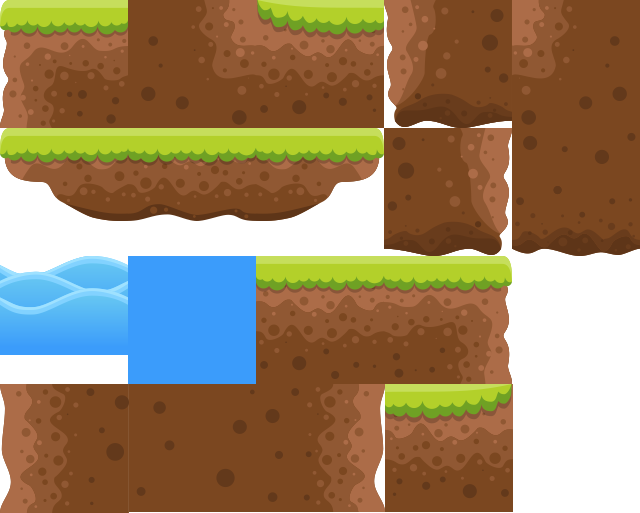
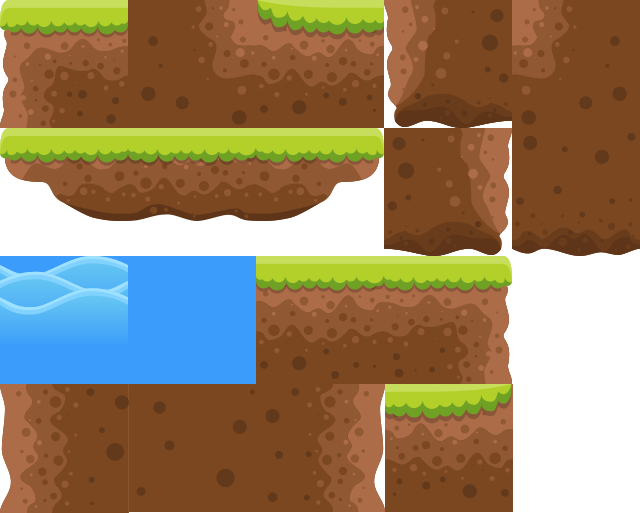
added anim.js , edited some images and now moving camera with the playerFighter and detecting collisions of playerFighter with ground

Changed region(s): [[0.0, 0.6862, 0.2188, 0.7485], [0.0, 0.499, 0.125, 0.5302], [0.1562, 0.499, 0.2188, 0.5302]]

diff --git a/public/js/layers.js b/public/js/layers.js
@@ -1,24 +1,10 @@
-import { loadImage } from './loaders.js';
-
-function drawBackground(background, ctx, sprites) {
-
-    background.ranges.forEach(([x1, x2, y1, y2]) => {
-        for(let x = x1; x < x2; ++x) {
-            for(let y = y1; y < y2; ++y) {
-                sprites.drawTile(background.tile, ctx, x, y);
-            }
-        }
-    });
-
-}
-
 
 export function createBackgroundLayer(level, sprites) {
     const tiles = level.tiles;
     const resolver = level.tileCollider.tiles;
 
     const backgroundBuffer = document.createElement('canvas');
-    backgroundBuffer.width = 128*12;
+    backgroundBuffer.width = 128*20;
     backgroundBuffer.height = 128*5;
 
     const context = backgroundBuffer.getContext('2d');
@@ -46,21 +32,21 @@ export function createBackgroundLayer(level, sprites) {
 
     return function drawBackgroundLayer(context, camera) {
 
-        loadImage('../images/sky3.png')
-        .then(backgroundImage => {
-            for(let i = 0; i < Math.ceil(camera.pos.x/1920) + 1; ++i ) {
-                context.drawImage(backgroundImage, 0 - camera.pos.x + i*1920, -320 - camera.pos.y);
-            }
-        }).then(() => {
-            const drawWidth = resolver.toIndex(camera.size.x);
-            const drawFrom = resolver.toIndex(camera.pos.x);
-            const drawTo = drawFrom + drawWidth;
-            redraw(drawFrom, drawTo);
-
+        // loadImage('../images/sky3.png')
+        // .then(backgroundImage => {
+        //     for(let i = 0; i < Math.ceil(camera.pos.x/1920) + 1; ++i ) {
+        //         context.drawImage(backgroundImage, 0 - camera.pos.x + i*1920, -320 - camera.pos.y);
+        //     }
+        // }).then(() => {
             
-            context.drawImage(backgroundBuffer, -camera.pos.x % 128, -camera.pos.y);
-        });
+        // });
+        const drawWidth = resolver.toIndex(camera.size.x);
+        const drawFrom = resolver.toIndex(camera.pos.x);
+        const drawTo = drawFrom + drawWidth;
+        redraw(drawFrom, drawTo);
+
         
+        context.drawImage(backgroundBuffer, -camera.pos.x % 128, -camera.pos.y);
     };
 }
 
@@ -69,18 +55,22 @@ export function createSpriteLayer(entities, width, height) {
     spriteBuffer.width = width;
     spriteBuffer.height = height;
     const spriteBufferContext = spriteBuffer.getContext('2d');
-
+    
 
     return function drawSpriteLayer(context, camera) {
+
+        
         entities.forEach(entity => {
             spriteBufferContext.clearRect(0, 0, width, height);
 
+            
             entity.draw(spriteBufferContext);
             context.drawImage(
                 spriteBuffer,
                 entity.pos.x - camera.pos.x,
                 entity.pos.y - camera.pos.y,
             );
+           
         });
     };
 }

diff --git a/public/js/main.js b/public/js/main.js
@@ -4,7 +4,7 @@ import { loadLevel } from './loaders.js';
 import { createPlayerFighter } from './entities.js';
 import { createCollisionLayer, createCameraLayer } from './layers.js';
 import { setupKeyboard } from './input.js';
-import { setupMouseControl } from './debug.js';
+// import { setupMouseControl } from './debug.js';
 
 const canvas = document.getElementById('screen');
 const context = canvas.getContext('2d');
@@ -20,25 +20,33 @@ Promise.all([
     window.camera = camera;
     
     playerFighter.pos.set(100, 100);
-
+    
     level.comp.layers.push(createCollisionLayer(level));
     level.comp.layers.push(createCameraLayer(camera));
 
     level.entities.add(playerFighter);
     
+     
+
     const input = setupKeyboard(playerFighter);
     input.listenTo(window);
 
-    setupMouseControl(canvas, playerFighter, camera);
+    // setupMouseControl(canvas, playerFighter, camera);
 
     const timer = new Timer(1/60);
-
-   
 
     timer.update =  function update(deltaTime) { 
         level.update(deltaTime);
 
+        if (playerFighter.pos.x > 200 ) {
+            camera.pos.x = playerFighter.pos.x - 200;
+        }
+        
         level.comp.draw(context, camera);
+
+        if (playerFighter.collided) {
+            level.entities.delete(playerFighter);
+        }
     }
 
     timer.start();

diff --git a/public/js/entities.js b/public/js/entities.js
@@ -5,6 +5,7 @@ import Ascend from './traits/Ascend.js';
 import Descend from './traits/Descend.js';
 import Go from './traits/Go.js';
 import { loadSpriteSheet } from './loaders.js';
+import { createAnim } from './anim.js';
 
 export async function createPlayerFighter() {
 
@@ -18,12 +19,20 @@ export async function createPlayerFighter() {
         // playerFighter.addTrait(new Velocity());
         playerFighter.addTrait(new Acceleration(0.005));
         playerFighter.addTrait(new Deceleration(0.005));
-        playerFighter.addTrait(new Ascend(0.001));
-        playerFighter.addTrait(new Descend(0.001));
+        playerFighter.addTrait(new Ascend());
+        playerFighter.addTrait(new Descend());
         
+        function routeFrame(playerFighter) {
+            if(playerFighter.go.direction !== 0) {
+                return runAnim(undefined);
+            }
 
+            return 'flying';
+        }
+
+        const runAnim = createAnim(['flying'], 10);
         playerFighter.draw = function drawPlayerFighter(context) {
-            sprite.draw('playerFighter', context, 0, 0);
+            sprite.draw( routeFrame(this), context, 0, 0);
             // for (let i = 0; i < 20; ++i) {
             //     sprite.draw('playerFighter', context, this.position.x + i*140, this.position.y);
             // }

diff --git a/public/js/TileCollider.js b/public/js/TileCollider.js
@@ -28,11 +28,13 @@ export default class TileCollider {
                 if (entity.pos.x + entity.size.x > match.x1) {
                     entity.pos.x = match.x1 - entity.size.x;
                     entity.vel.x = 0;
+                    entity.collided = true;
                 }
             } else if (entity.vel.x < 0) {
                 if (entity.pos.x < match.x2) {
                     entity.pos.x = match.x2;
                     entity.vel.x = 0;
+                    entity.collided = true;
                 }
             }
         });
@@ -61,11 +63,13 @@ export default class TileCollider {
                 if (entity.pos.y + entity.size.y > match.y1) {
                     entity.pos.y = match.y1 - entity.size.y;
                     entity.vel.y = 0;
+                    entity.collided = true;
                 }
             } else if (entity.vel.y < 0) {
                 if (entity.pos.y < match.y2) {
                     entity.pos.y = match.y2;
                     entity.vel.y = 0;
+                    entity.collided = true;
                 }
             }
         });

diff --git a/public/js/traits/Go.js b/public/js/traits/Go.js
@@ -5,21 +5,30 @@ export default class Go extends Trait {
         super('go');
 
         this.direction = 0;
-        this.acceleration = 2000;
+        this.acceleration = 500;
+        this.dragFactor = 1/500000000;
     }
 
     update(entity, deltaTime) {
-         
-        if (entity.vel.x >= 1200) {
-            entity.vel.x = 1100;
-            return;
-        }
-
-        if(entity.vel.x < 0) {
+        
+        if(entity.collided === true) {
             entity.vel.x = 0;
+            entity.vel.y = 0;
+        }
+         
+        if (entity.vel.x > 2400) {
+            entity.vel.x = 2400;
             return;
         }
 
-        entity.vel.x += this.acceleration * this.direction * deltaTime;
+        if(entity.vel.x < 800) {
+            entity.vel.x = 800;
+            return;
+        }
+
+        // const drag = entity.vel.x >= 800 ? this.dragFactor * Math.abs(entity.vel.x/100) : 0;
+        entity.vel.x += Math.floor((this.acceleration * this.direction * deltaTime));
+
+       
     }
 }

diff --git a/public/js/SpriteSheet.js b/public/js/SpriteSheet.js
@@ -5,6 +5,11 @@ export default class SpriteSheet {
         this.height = height;
         this.scale = scale;
         this.tiles = new Map();
+        this.animations = new Map();
+    }
+
+    defineAnim(name, Animation) {
+        this.animations.set(name, Animation);
     }
 
     define(name, x, y, width, height, scale = 1) {
@@ -58,7 +63,14 @@ export default class SpriteSheet {
         context.drawImage(buffer, x, y);
     }
 
+    drawAnim(name, context, x, y, distance) {
+        const animation = this.animations.get(name);
+        this.drawTile(animation(distance), context, x, y);
+
+    }
+
     drawTile(name, context, x, y) {
         this.draw(name, context, x*this.width, y*this.height);
+        
     }
 }

diff --git a/public/js/Entity.js b/public/js/Entity.js
@@ -16,6 +16,7 @@ export default class Entity {
         this.vel = new Vector2d(0,0);
         this.size = new Vector2d(0, 0);
         this.traits = [];
+        this.collided = false;
     }
 
     addTrait(trait) {
@@ -24,9 +25,15 @@ export default class Entity {
     }
 
     update(deltaTime) {
-        this.traits.forEach(trait => {
-            trait.update(this, deltaTime);
-        })
+        if (!this.collided) {
+            this.traits.forEach(trait => {
+                trait.update(this, deltaTime);
+            })
+        } else {
+            this.size.set(0, 0);
+            this.traits = [];
+        }
+        
     }
      
 }

diff --git a/public/js/Level.js b/public/js/Level.js
@@ -5,6 +5,7 @@ import { Matrix } from './math.js';
 export default class Level {
     constructor(){
         this.gravity = 800;
+        this.totalTime = 0;
         this.comp = new Compositor();
         this.entities = new Set();
         this.tiles = new Matrix();
@@ -24,6 +25,8 @@ export default class Level {
             this.tileCollider.checkY(entity);
             
             // entity.vel.y += this.gravity * deltaTime;
-        })
+        });
+
+        this.totalTime += deltaTime;
     }
 }

diff --git a/public/index.css b/public/index.css
@@ -5,6 +5,10 @@ body {
     justify-content: center; 
     align-items: center; 
     height: 100vh;
+    background: #141E30;  /* fallback for old browsers */
+    background: -webkit-linear-gradient(to right, #243B55, #141E30);  /* Chrome 10-25, Safari 5.1-6 */
+    background: linear-gradient(to right, #243B55, #141E30); /* W3C, IE 10+/ Edge, Firefox 16+, Chrome 26+, Opera 12+, Safari 7+ */
+
 }
 
 .game-display {

diff --git a/public/js/input.js b/public/js/input.js
@@ -24,12 +24,12 @@ export function setupKeyboard(entity) {
 
     const D = 'KeyD';
     input.addMapping(D, keyState => {
-        entity.go.direction = keyState;
+        entity.go.direction += keyState ? 1 : -1;
     });
 
     const A = 'KeyA';
     input.addMapping(A, keyState => {
-        entity.go.direction = -keyState;
+        entity.go.direction += keyState ? -1 : 1;
     });
 
 

diff --git a/public/js/Timer.js b/public/js/Timer.js
@@ -8,6 +8,10 @@ export default class Timer {
         this.updateProxy = (time) => { 
             accumulatedTime += (time - lastTime) / 1000;
 
+            if (accumulatedTime > 1) {
+                accumulatedTime = 1;
+            }
+
             while (accumulatedTime > deltaTime) {
                 this.update(deltaTime);
                 accumulatedTime -= deltaTime;

diff --git a/public/js/anim.js b/public/js/anim.js
@@ -1,0 +1,12 @@
+export function createAnim(frames, frameLen) {
+    return function resolveFrame(distance) {
+         
+        if (frames.length === 1) {
+            return frames[0];
+        }
+
+        const frameIndex = Math.floor(distance / frameLen) % frames.length;
+        const frameName = frames[frameIndex];
+        return frameName;
+    }
+}
